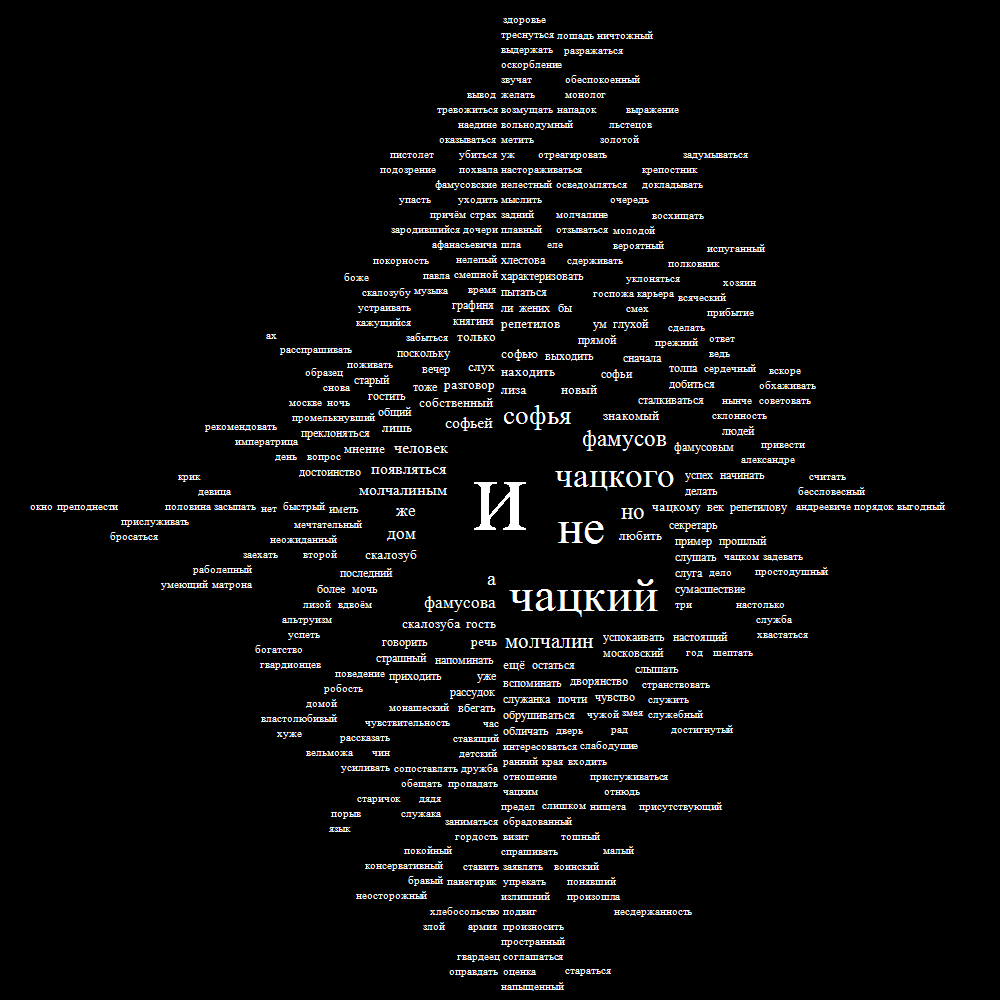
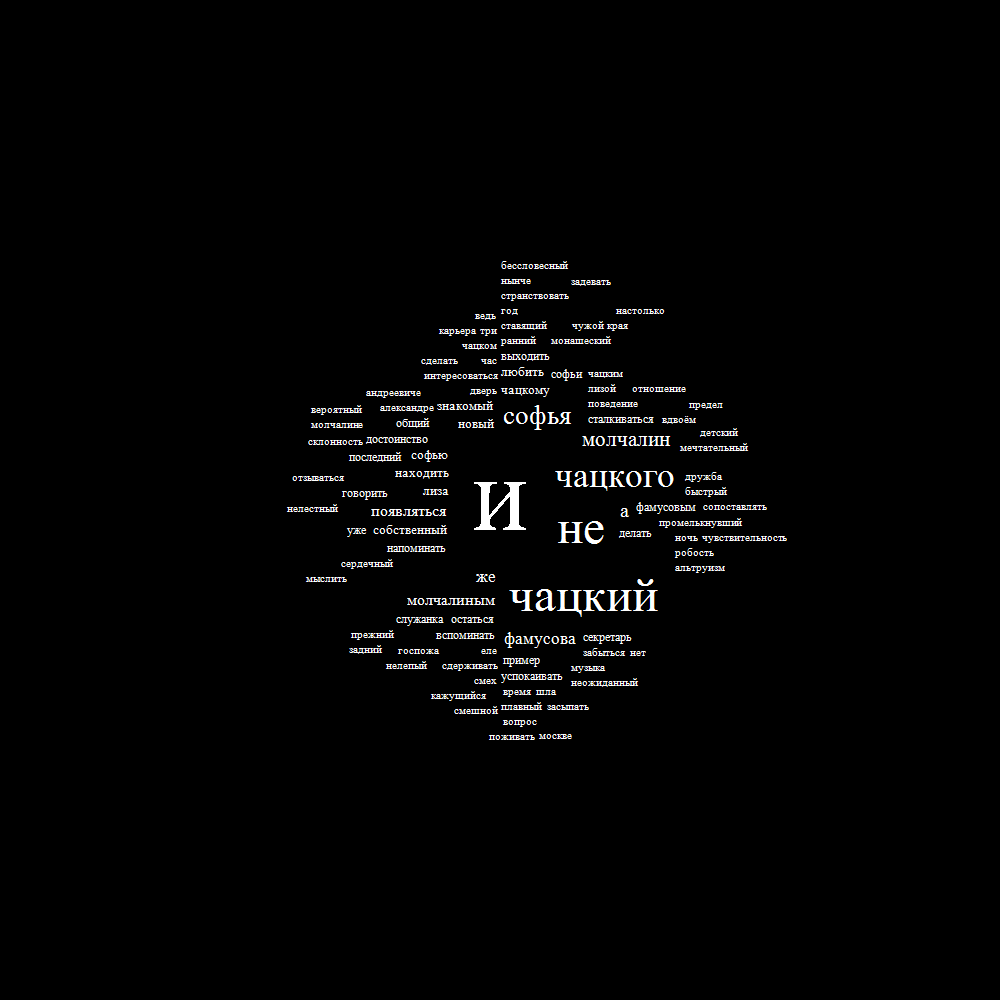
fix

diff --git a/TagsCloudApp/Client/TagsCloudAppUi.cs b/TagsCloudApp/Client/TagsCloudAppUi.cs
@@ -18,7 +18,7 @@ namespace TagsCloudApp.Client
         public virtual Result<IEnumerable<string>> GetSourceText(IOptions options)
         {
             var text = Result.Of(() => Path.GetExtension(options.Filename),"Неверный формат входного файла")
-                .ThenTry(GetFileParser,"Невозможно получить информацию из данного формата")
+                .Then(GetFileParser)
                 .ThenTry(parser => parser.GetFileText(options.Filename),"Не удалось получить текст из файла");
             return text;
         }
@@ -58,12 +58,12 @@ namespace TagsCloudApp.Client
             return Result.Of(()=>Program.Container.Resolve<TagsCloudSettings.Factory>()
                 .Invoke(options.ImageWidth, options.ImageHeight, center, imageFormat, options.Fontname, backgroudColor,
                     colors,
-                    algorithmOfColoring), "Не удалось получить настройки");
+                    algorithmOfColoring,options.MaxCountWords), "Не удалось получить настройки");
         }
 
         private Result<IAlgorithmOfColoring> GetAlgorithmOfColoring(IOptions options)
         {
-            return Result.Of(()=>Program.Container.Resolve<IAlgorithmOfColoring>(new NamedParameter("name", options.AlgorithmName)),$"Алгоритма расскарски с таким именем не существует({options.AlgorithmName})");
+            return Program.Container.Resolve<Result<IAlgorithmOfColoring>>(new NamedParameter("name", options.AlgorithmName));
         }
 
         private Result<Preprocessor> GetPreprocessor(IOptions options)
@@ -73,16 +73,16 @@ namespace TagsCloudApp.Client
             {
                 foreach (var filterName in options.FiltersNames)
                 {
-                    var filter = Result.Of(()=>Program.Container.Resolve<IFilterWords>(new NamedParameter("name", filterName)),$"Данного фильтра не существует({filterName})");
+                    var filter = Program.Container.Resolve<Result<IFilterWords>>(new NamedParameter("name", filterName));
                     filters.Add(filter.GetValueOrThrow());
                 }
             }
             return Program.Container.Resolve<Preprocessor.Factory>().Invoke(filters);
         }
 
-        private IFileParser GetFileParser(string extension)
+        private Result<IFileParser> GetFileParser(string extension)
         {
-            return Program.Container.Resolve<IFileParser>(new NamedParameter("extension", extension));
+            return Program.Container.Resolve<Result<IFileParser>>(new NamedParameter("extension", extension));
         }
 
         private Result<TagsCloud> GetCloud(Result<Preprocessor> preprocessor, Result<TagsCloudSettings> settings, Result<IDeterminatorOfWordSize> determinator, Result<ICloudLayouter> layouter)
@@ -98,8 +98,8 @@ namespace TagsCloudApp.Client
 
         private Result<IDeterminatorOfWordSize> GetDeterminatorOfWordSize(IOptions options)
         {
-            return Result.Of(()=>Program.Container.Resolve<IDeterminatorOfWordSize>(new NamedParameter("name",
-                options.NameDeterminatorOfWordSize)), "Не установлен определитель размера слов");
+            return Program.Container.Resolve<Result<IDeterminatorOfWordSize>>(new NamedParameter("name",
+                options.NameDeterminatorOfWordSize));
         }
     }
 }

diff --git a/TagsCloudApp/Program.cs b/TagsCloudApp/Program.cs
@@ -31,20 +31,14 @@ namespace TagsCloudApp
                 "-c", "white",
                 "-d", "ordinary",
                 "-p", "initial_form", "without_prepositions",
-                "-a", "random"
+                "-a", "random",
+                "-m","100"
             };
 
 
             CreateContainer();
-
-            try
-            {
-                Container.Resolve<ConsoleUi.Factory>().Invoke(args).Run();
-            }
-            catch (Exception e)
-            {
-                Console.WriteLine(e.StackTrace);
-            }
+            Container.Resolve<ConsoleUi.Factory>().Invoke(args).Run();
+          
         }
 
 
@@ -71,7 +65,7 @@ namespace TagsCloudApp
 
         private static void RegisterIFileParser(ContainerBuilder builder)
         {
-            builder.Register<IFileParser>(
+            builder.Register<Result<IFileParser>>(
                 (c, p) =>
                 {
                     var extension = p.Named<string>("extension");
@@ -79,13 +73,13 @@ namespace TagsCloudApp
                         return new TxtParser();
                     if (extension == ".doc")
                         return new DocParser();
-                    throw new ArgumentException();
+                    return Result.Fail<IFileParser>("Не удается обработать данный формат текста");
                 });
         }
 
         private static void RegisterIDeterminatorOfWordSize(ContainerBuilder builder)
         {
-            builder.Register<IDeterminatorOfWordSize>(
+            builder.Register<Result<IDeterminatorOfWordSize>>(
                 (c, p) =>
                 {
                     var name = p.Named<string>("name");
@@ -101,13 +95,13 @@ namespace TagsCloudApp
                     {
                         return new OneBigWordDeterminator();
                     }
-                    throw new ArgumentException();
+                    return Result.Fail<IDeterminatorOfWordSize>("Не установлен определитель размера слов");
                 });
         }
 
         private static void RegisterIAlgorithmOfColoring(ContainerBuilder builder)
         {
-            builder.Register<IAlgorithmOfColoring>(
+            builder.Register<Result<IAlgorithmOfColoring>>(
                 (c, p) =>
                 {
                     var name = p.Named<string>("name");
@@ -119,13 +113,13 @@ namespace TagsCloudApp
                     {
                         return new SimilarColoring();
                     }
-                    throw new ArgumentException();
+                    return Result.Fail<IAlgorithmOfColoring>($"Алгоритма расскарски с таким именем не существует({name})");
                 });
         }
 
         private static void RegisterIFilterWords(ContainerBuilder builder)
         {
-            builder.Register<IFilterWords>(
+            builder.Register<Result<IFilterWords>>(
                 (c, p) =>
                 {
                     var name = p.Named<string>("name");
@@ -141,7 +135,7 @@ namespace TagsCloudApp
                     {
                         return new FilterPrepositions();
                     }
-                    return null;
+                    return Result.Fail<IFilterWords>($"Данного фильтра не существует({name})");
                 });
         }
     }

diff --git a/TagsCloudApp/TagsCloudSettings.cs b/TagsCloudApp/TagsCloudSettings.cs
@@ -11,7 +11,7 @@ namespace TagsCloudApp
     {
         public delegate TagsCloudSettings Factory(
             int width, int height,Point center ,Result<ImageFormat> imageFormat, string fontname, Result<Color> backgroundColor,
-            IEnumerable<Result<Color>> colors, IAlgorithmOfColoring algorithmOfColoring);
+            IEnumerable<Result<Color>> colors, IAlgorithmOfColoring algorithmOfColoring,int maxCount);
 
         public int Width { get; set; }
         public int Height { get; set; }
@@ -21,19 +21,58 @@ namespace TagsCloudApp
         public Color BackgroundColor { get; set; }
         public IEnumerable<Color> Colors { get; set; }
         public IAlgorithmOfColoring AlgorithmOfColoringWords { get; set; }
-        
+        public int MaxCountWords { get; set; }
 
         public TagsCloudSettings(int width, int height,Point center, Result<ImageFormat> imageFormat, string fontname, Result<Color> backgroundColor,
-            IEnumerable<Result<Color>> colors, IAlgorithmOfColoring algorithmOfColoring)
+            IEnumerable<Result<Color>> colors, IAlgorithmOfColoring algorithmOfColoring, int maxCount)
         {
+            Width = GetWidth(width).GetValueOrThrow();
+            Height = GetHeight(height).GetValueOrThrow();
             Width = width;
             Height = height;
             ImageFormat = imageFormat.GetValueOrThrow();
-            Fontname = fontname;
-            CenterPoint = center;
+            Fontname = GetFont(fontname).GetValueOrThrow();
+            CenterPoint = GetCenter(Width,Height,center).GetValueOrThrow();
             BackgroundColor = backgroundColor.GetValueOrThrow();
             Colors = colors.Select(c => c.GetValueOrThrow());
             AlgorithmOfColoringWords = algorithmOfColoring;
+            MaxCountWords = GetMaxCount(maxCount).GetValueOrThrow();
+        }
+
+        private Result<int> GetWidth(int width)
+        {
+            if (width > 0) return width;
+            return Result.Fail<int>("Неверный настройки ширины, ширина должна быть больше 0");
+        }
+
+        private Result<int> GetHeight(int height)
+        {
+            if (height > 0) return height;
+            return Result.Fail<int>("Неверный настройки высоты, высота должна быть больше 0");
+        }
+
+        private Result<Point> GetCenter(int width,int height, Point centerPoint)
+        {
+            var center = centerPoint;
+            if (center.X < 0 || center.Y < 0 || center.X > width || center.Y > height)
+                return Result.Fail<Point>("Точка центра задана некорректно");
+            return center;
+        }
+
+        private Result<string> GetFont(string fontname)
+        {
+            if (FontFamily.Families
+                .Any(oneFontFamily => oneFontFamily.Name.ToLower().IndexOf(fontname.ToLower(), StringComparison.Ordinal) > -1))
+            {
+                return fontname;
+            }
+            return  Result.Fail<string>("Шрифт с таким именем не найден в системе");
+        }
+
+        private Result<int> GetMaxCount(int maxCount)
+        {
+            if (maxCount > 0) return maxCount;
+            return Result.Fail<int>("Количсество слов должно быть больше 0");
         }
     }
 }

diff --git a/TagsCloudApp/TagsCloud.cs b/TagsCloudApp/TagsCloud.cs
@@ -2,7 +2,6 @@
 using System.Collections.Generic;
 using System.Drawing;
 using System.Linq;
-using System.Net.Mail;
 using TagsCloudApp.CloudLayouter;
 using TagsCloudApp.DeterminatorOfWordSize;
 using TagsCloudApp.Preprocessors;
@@ -30,24 +29,22 @@ namespace TagsCloudApp
 
         public void CreateBitmapWithWords(IEnumerable<string> text, string path)
         {
-            var stats = Preprocessor.Processing(text);
+            var stats = Preprocessor.Processing(text).Take(Settings.MaxCountWords).ToDictionary(x =>x.Key,x=>x.Value);
             DeterminatorOfWordSize.SetParameters(stats);
-            var width = GetWidth(Settings).GetValueOrThrow();
-            var height = GetHeight(Settings).GetValueOrThrow();
-            var center = GetCenter(Settings).GetValueOrThrow();
-            CloudLayouter.SetCloudSetting(width, height, center);
+
+            CloudLayouter.SetCloudSetting(Settings.Width,Settings.Height, Settings.CenterPoint);
             var words =stats.Select(tuple => new WordInformation(tuple.Key, tuple.Value))
                 .OrderByDescending(x => x.Frequency);
 
-            Bitmap bitmap = new Bitmap(width, height);
+            Bitmap bitmap = new Bitmap(Settings.Width, Settings.Height);
             Graphics g = Graphics.FromImage(bitmap);
             g.Clear(Settings.BackgroundColor);
             foreach (var wordInformation in words)
             {
-                var font = GetFont(wordInformation).GetValueOrThrow();
+                var font = DeterminatorOfWordSize.GetFont(wordInformation, Settings.Fontname);
                 var size = g.MeasureString(wordInformation.Content, font);
                 var bigSize = new Size((int) Math.Ceiling(size.Width), (int) Math.Ceiling(size.Height));
-                if (!CloudLayouter.TryPutNextRectangle(bigSize))
+                if (!CloudLayouter.TryPutNextRectangle(bigSize).Value)
                 {
                     break;
                 }
@@ -60,32 +57,6 @@ namespace TagsCloudApp
 
             CloudLayouter.RemovePlacedRectangles();
             bitmap.Save(path, Settings.ImageFormat);
-        }
-
-        private Result<Font> GetFont(WordInformation wordInformation)
-        {
-            return Result.Of(() => DeterminatorOfWordSize.GetFont(wordInformation, Settings.Fontname),
-                "Шрифт с таким именем не найден в системе");
-        }
-
-        private Result<int> GetWidth(TagsCloudSettings setting)
-        {
-            if (setting.Width > 0) return Settings.Width;
-            return Result.Fail<int>("Неверный настройки ширины, ширина должна быть больше 0");
-        }
-
-        private Result<int> GetHeight(TagsCloudSettings setting)
-        {
-            if (setting.Height > 0) return Settings.Height;
-            return Result.Fail<int>("Неверный настройки высоты, высота должна быть больше 0");
-        }
-
-        private Result<Point> GetCenter(TagsCloudSettings setting)
-        {
-            var center = Settings.CenterPoint;
-            if (center.X < 0 || center.Y < 0 || center.X > setting.Width || center.Y > setting.Height)
-                return Result.Fail<Point>("Точка центра задана некорректно");
-            return center;
         }
     }
 }

diff --git a/TagsCloudApp/CloudLayouter/CircularCloudLayouter/CircularCloudLayouter.cs b/TagsCloudApp/CloudLayouter/CircularCloudLayouter/CircularCloudLayouter.cs
@@ -27,11 +27,10 @@ namespace TagsCloudApp.CloudLayouter.CircularCloudLayouter
             this.deltaOfSpiralInDegrees = deltaOfSpiralInDegrees;
         }
 
-        public bool TryPutNextRectangle(Size rectangleSize)
+        public Result<bool> TryPutNextRectangle(Size rectangleSize)
         {
-            try
-            {
-                if (rectangleSize.Width > Width || rectangleSize.Height > Height) throw new ArgumentException();
+                if (rectangleSize.Width > Width || rectangleSize.Height > Height)
+                    Result.Fail<bool>("Размер прямоугольника больше размера облака");
                 if (Rectangles.Count == 0)
                 {
                     var rectangleCenter = new Point(rectangleSize.Width/2, rectangleSize.Height/2);
@@ -44,7 +43,7 @@ namespace TagsCloudApp.CloudLayouter.CircularCloudLayouter
                 }
                 while (true)
                 {
-                    var nextPoint = Spiral.GetNextPoint();
+                    var nextPoint =  Spiral.GetNextPoint().ReplaceError(e =>"Не удалось разместить прямоугольник").GetValueOrThrow();
                     if (GeometryHelper.IsIncorrectPoint(nextPoint, Width, Height))
                     {
                         continue;
@@ -57,11 +56,6 @@ namespace TagsCloudApp.CloudLayouter.CircularCloudLayouter
                         return true;
                     }
                 }
-            }
-            catch
-            {
-                return false;
-            }
         }
 
         public bool IsRectangleDoesNotIntersectsWithRectanglesFromCloud(Rectangle currentRectangle)
@@ -85,8 +79,7 @@ namespace TagsCloudApp.CloudLayouter.CircularCloudLayouter
         public void SetCloudSetting(int width, int height, Point centerPoint)
         {
             Width = width;
-            Height = height;
-            if (GeometryHelper.IsIncorrectPoint(centerPoint, Width, Height)) throw new ArgumentException();
+            Height = height;          
             CenterPoint = centerPoint;
             Spiral = new Spiral(CenterPoint, Width, Height, densityOfSpiral, deltaOfSpiralInDegrees);
         }

diff --git a/TagsCloudApp/CloudLayouter/CircularCloudLayouter/Spiral.cs b/TagsCloudApp/CloudLayouter/CircularCloudLayouter/Spiral.cs
@@ -1,5 +1,6 @@
 using System;
 using System.Drawing;
+using TagsCloudApp;
 
 
 namespace TagsCloudVisualization
@@ -27,9 +28,10 @@ namespace TagsCloudVisualization
             MaxRadius = GeometryHelper.GetMaxRadius(center, width, height);
         }
 
-        public Point GetNextPoint()
+        public Result<Point> GetNextPoint()
         {
-            if (CurrentRadius > MaxRadius) throw new IndexOutOfRangeException();
+            
+            if (CurrentRadius > MaxRadius) return Result.Fail<Point>("Следующая точка в спирале превышает макимальный радиус");
             currentAngle += deltaInDegrees;
             currentDensityOfSpiral += deltaFromDensity;
             CurrentRadius = currentAngle*currentDensityOfSpiral;

diff --git a/TagsCloudApp/CloudLayouter/ICloudLayouter.cs b/TagsCloudApp/CloudLayouter/ICloudLayouter.cs
@@ -5,7 +5,7 @@ namespace TagsCloudApp.CloudLayouter
     public interface ICloudLayouter
     {
         Rectangle LastPlacedRectangle { get; }
-        bool TryPutNextRectangle(Size rectangleSize);
+        Result<bool> TryPutNextRectangle(Size rectangleSize);
         void RemovePlacedRectangles();
         void SetCloudSetting(int width, int height, Point center);
     }

diff --git a/TagsCloudApp/Client/ConsoleClient/ConsoleOptions.cs b/TagsCloudApp/Client/ConsoleClient/ConsoleOptions.cs
@@ -43,6 +43,9 @@ namespace TagsCloudApp.Client.ConsoleClient
         [Option('a', "algorithm of coloring", HelpText = "Algorithm of coloring")]
         public string AlgorithmName { get; set; }
 
+        [Option('m',  HelpText = "Maximum count words")]
+        public int MaxCountWords { get; set; }
+
         [HelpOption]
         public string GetUsage()
         {

diff --git a/TagsCloudApp/Client/IOptions.cs b/TagsCloudApp/Client/IOptions.cs
@@ -14,5 +14,6 @@
         string NameDeterminatorOfWordSize { get; set; }
         string[] FiltersNames { get; set; }
         string AlgorithmName { get; set; }
+        int MaxCountWords { get; set; }
     }
 }
